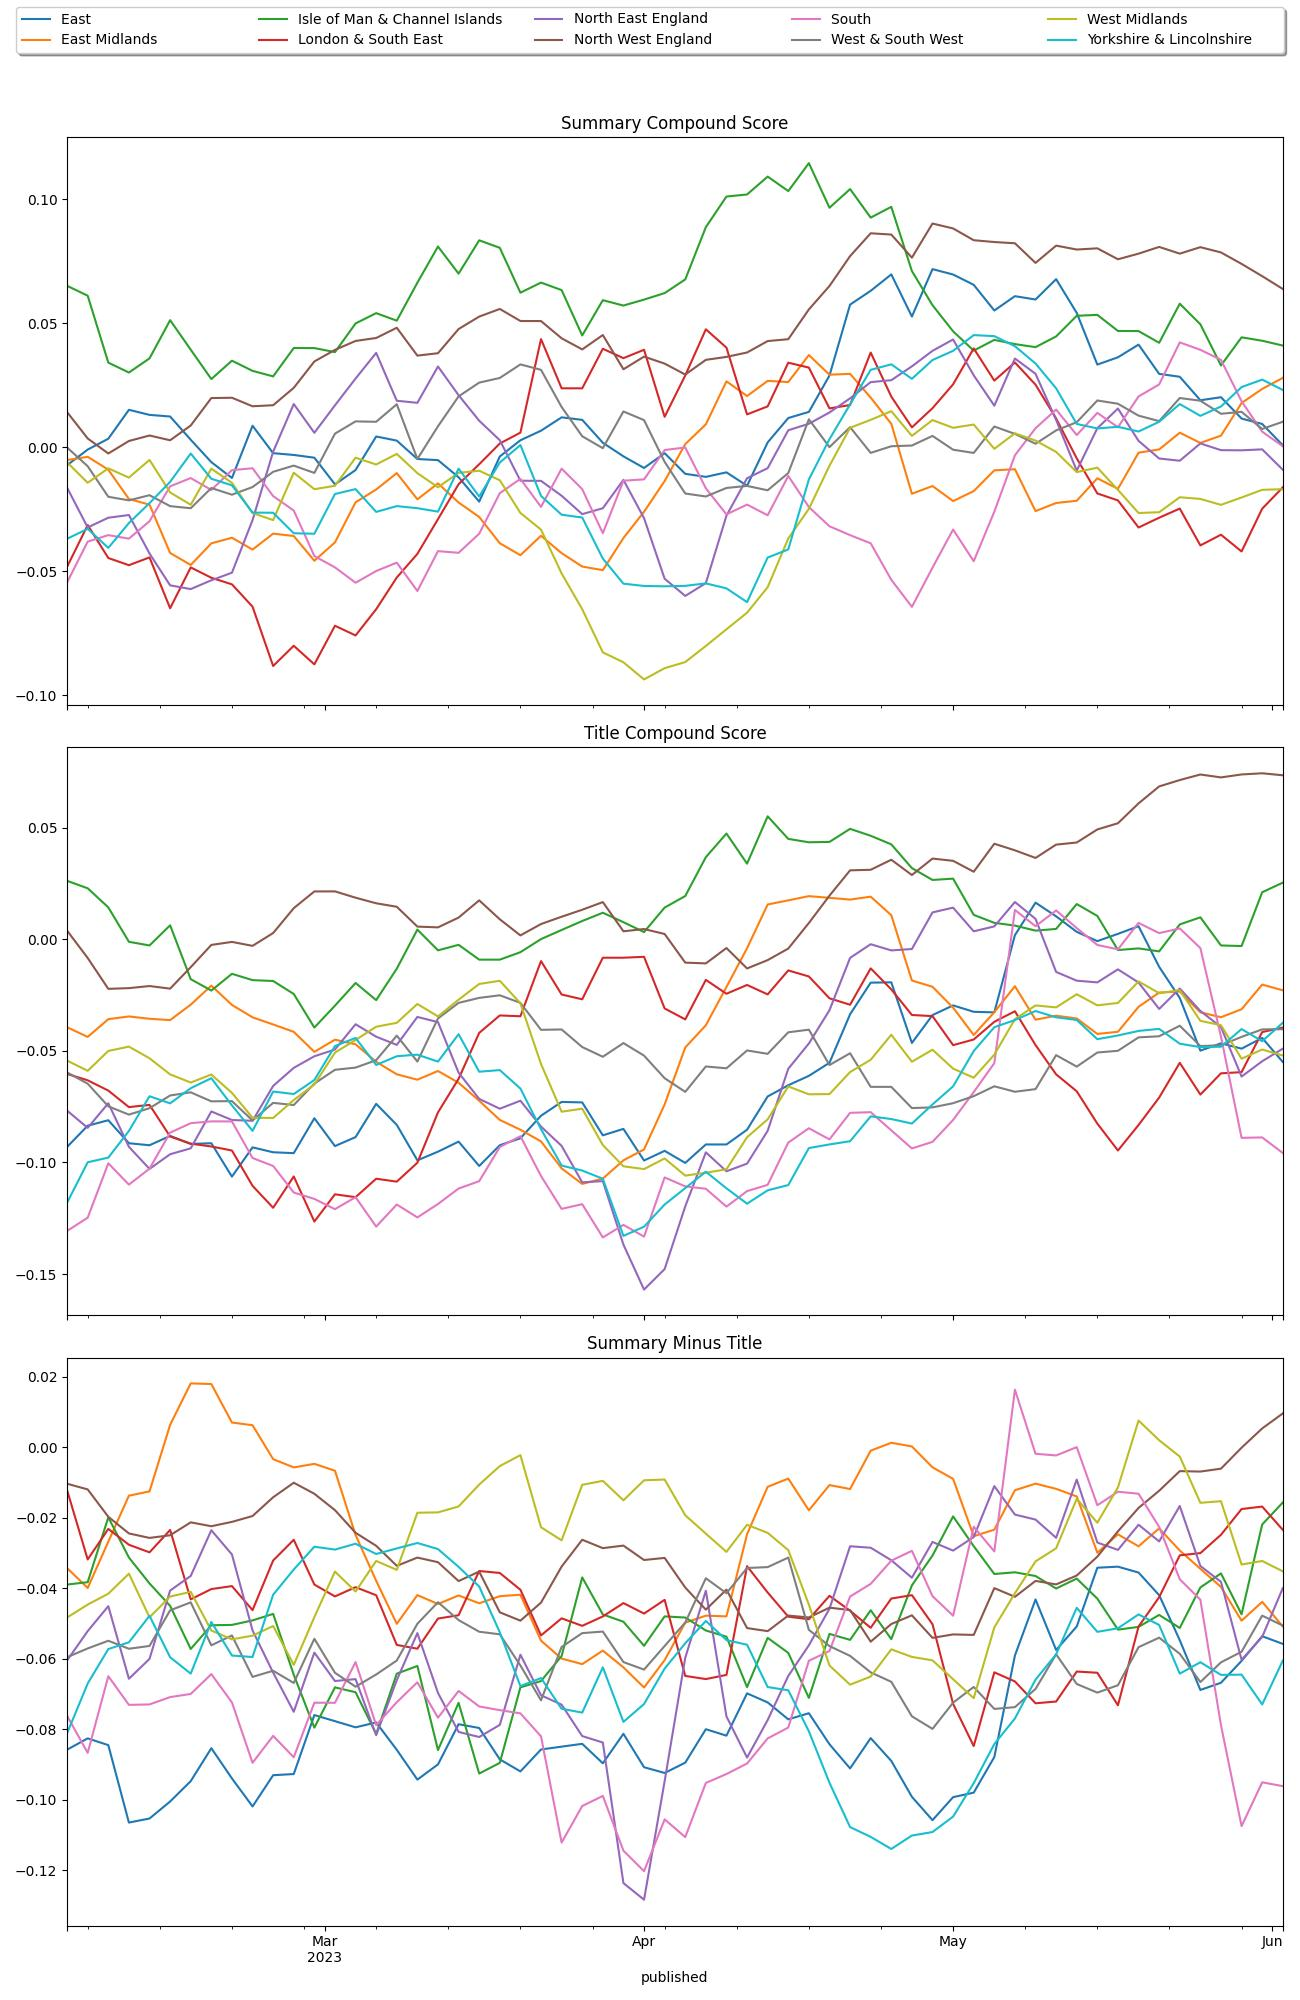
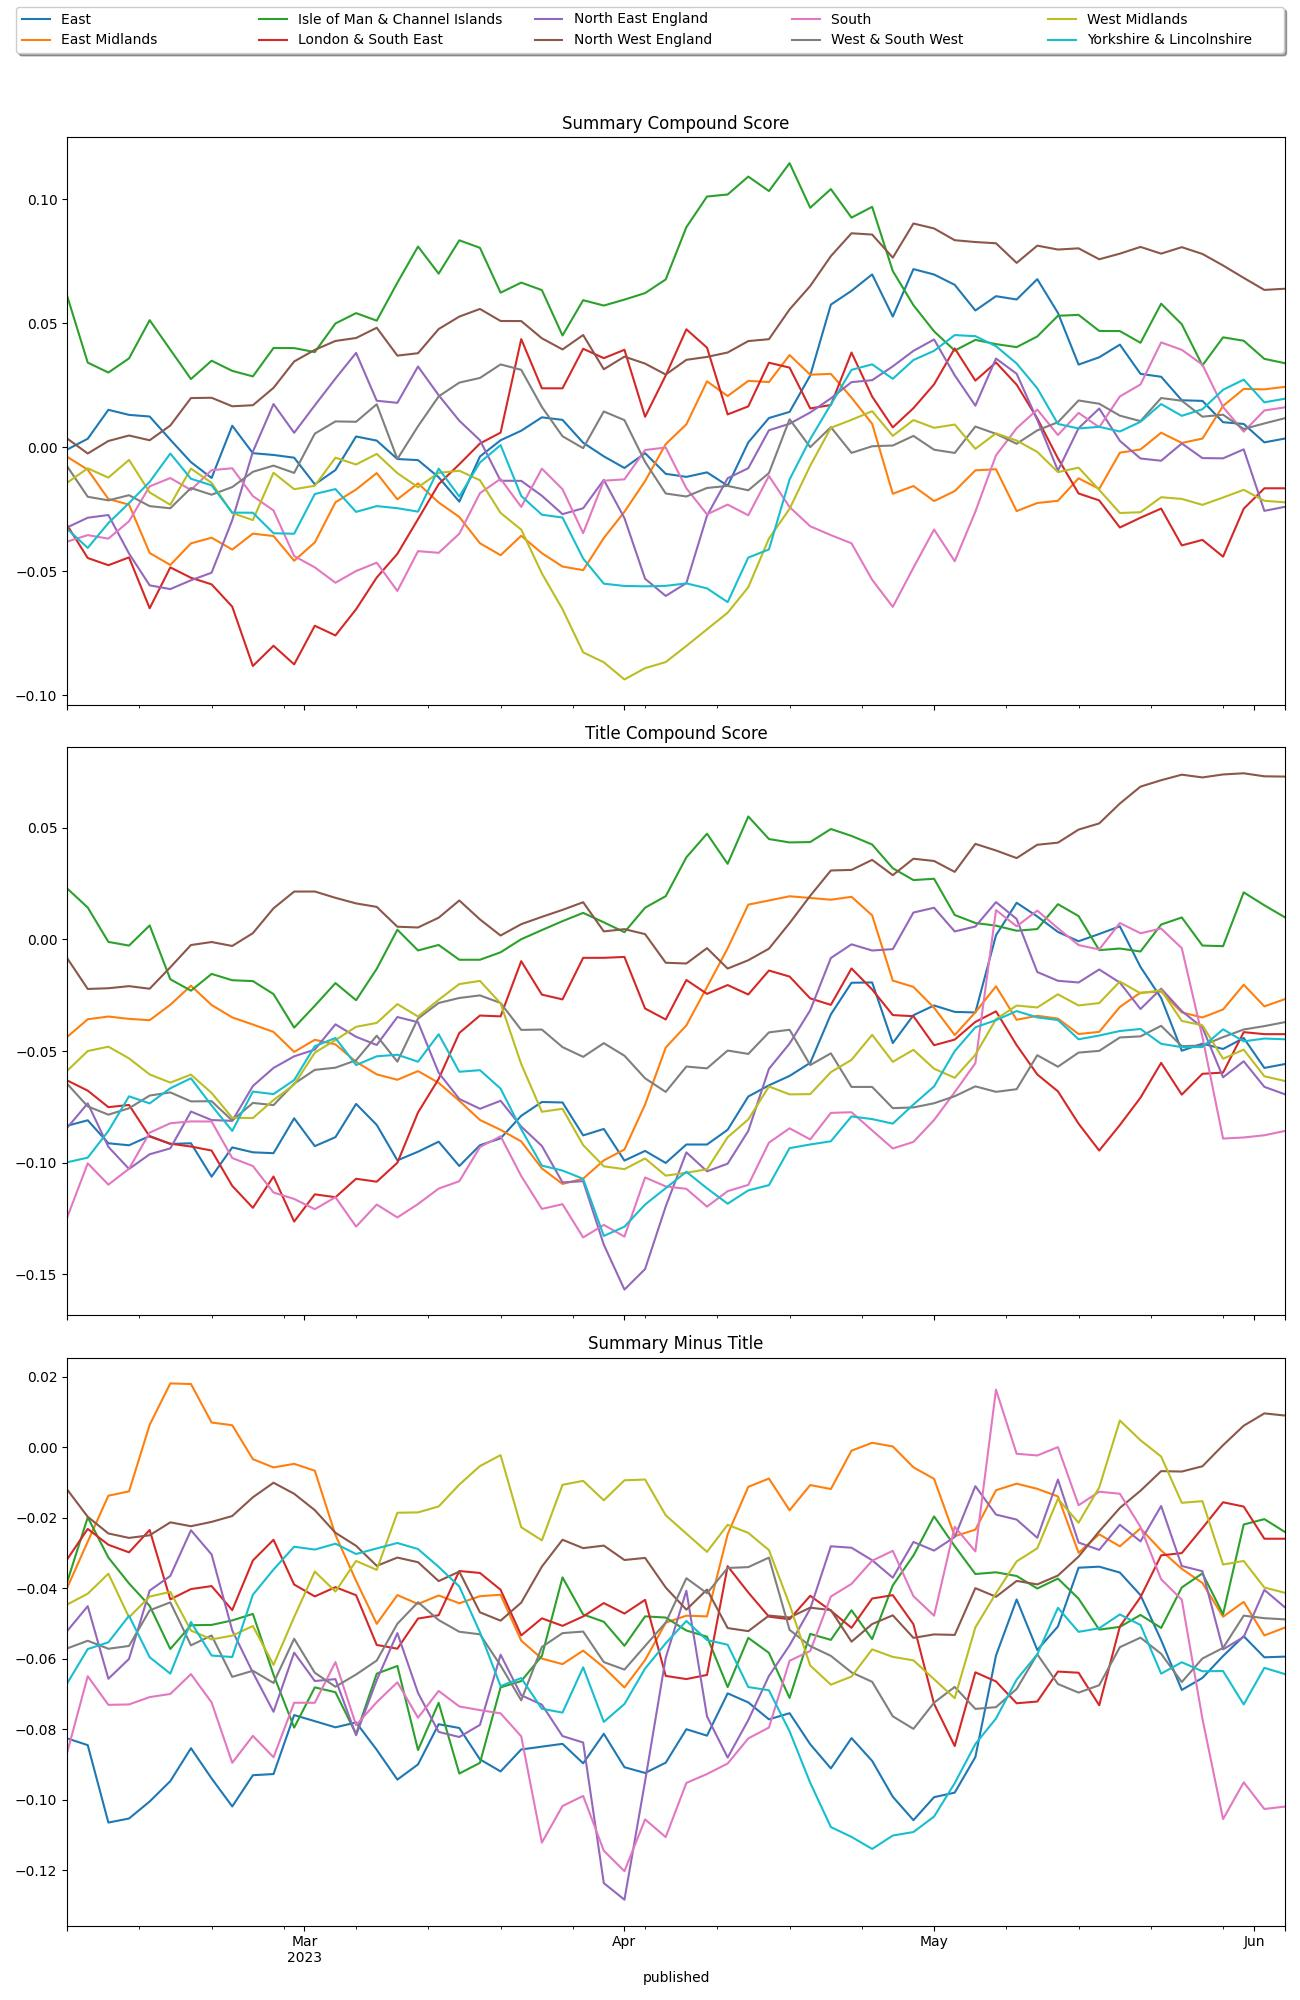
at 2023-06-04 10:48 ran: [Stage: 'complete-basic_report']

diff --git a/reports/complete/latest.md b/reports/complete/latest.md
@@ -1,12 +1,12 @@
-| region                        | published                  | summary                                                                                                                                        | title                                               | url                                      |   summary_compound_score |   title_compound_score |   summary_minus_title |
-|:------------------------------|:---------------------------|:-----------------------------------------------------------------------------------------------------------------------------------------------|:----------------------------------------------------|:-----------------------------------------|-------------------------:|-----------------------:|----------------------:|
-| East                          | 2023-06-03 08:21:58        | The seagull mural on the side of a house on the Suffolk coast has been put in storage.                                                         | House wall being rebuilt after Banksy mural removed | /news/uk-england-suffolk-65792750        |                   0      |                 0      |                0      |
-| East Midlands                 | 2023-06-03 08:56:51        | Lord Austin has faced criticism but he insists he comes with an open mind and desire to help.                                                  | Leicester disorder review head defends appointment  | /news/uk-england-leicestershire-65793769 |                   0.7311 |                -0.4019 |               -1.133  |
-| Isle of Man & Channel Islands | 2023-06-03 08:28:51.601000 | Visiting fans share their excitement ahead of the start of racing at 2023 Isle of Man TT.                                                      | Isle of Man TT fans excited as 'magic' races return | /news/articles/cz4nww213rqo              |                   0.6597 |                 0.34   |               -0.3197 |
-| London & South East           | 2023-06-02 22:00:37        | Somerset and Worcestershire maintain their 100% winning records in the T20 Blast, while there is a surprise first defeat for Birmingham Bears. | Somerset and Worcs win again in T20 Blast           | /sport/cricket/65776856                  |                   0.3612 |                 0.5859 |                0.2247 |
-| North East England            | 2023-06-03 08:43:07        | The JArmy Facebook group has 23,000 members obsessed with the Teesside singer.                                                                 | The legions of superfans 'addicted' to James Arthur | /news/uk-england-tees-65769250           |                  -0.1779 |                 0      |                0.1779 |
-| North West England            | 2023-06-03 09:02:34.432000 |                                                                                                                                                | Guardiola praises 'exceptional manager' Ten Hag     | /sport/articles/c51qpvv29p4o             |                   0      |                 0.5267 |                0.5267 |
-| South                         | 2023-06-02 22:00:37        | Somerset and Worcestershire maintain their 100% winning records in the T20 Blast, while there is a surprise first defeat for Birmingham Bears. | Somerset and Worcs win again in T20 Blast           | /sport/cricket/65776856                  |                   0.3612 |                 0.5859 |                0.2247 |
-| West & South West             | 2023-06-03 08:46:04        | Communities and businesses in Weston-super-Mare are hosting a month of events to mark Pride Month.                                             | Town launches month of events to celebrate Pride    | /news/uk-england-somerset-65765896       |                   0.34   |                 0.7269 |                0.3869 |
-| West Midlands                 | 2023-06-03 09:12:25        | Firefighters remain at the scene in Cheston Road in the Aston area of Birmingham.                                                              | Fire crews tackle huge scrap fire in city           | /news/uk-england-birmingham-65797054     |                   0      |                -0.3612 |               -0.3612 |
-| Yorkshire & Lincolnshire      | 2023-06-03 09:10:51        | Officers were called by the ambulance service to the incident in Roseville Road early on Saturday.                                             | Man seriously injured in hit and run                | /news/uk-england-leeds-65797014          |                   0      |                -0.5267 |               -0.5267 |
+| region                        | published           | summary                                                                                                                                                              | title                                                      | url                                           |   summary_compound_score |   title_compound_score |   summary_minus_title |
+|:------------------------------|:--------------------|:---------------------------------------------------------------------------------------------------------------------------------------------------------------------|:-----------------------------------------------------------|:----------------------------------------------|-------------------------:|-----------------------:|----------------------:|
+| East                          | 2023-06-04 06:16:36 | Leicester Children's Holidays provides holidays and short breaks to disadvantaged children.                                                                          | Children's holiday charity celebrates 125 years            | /news/uk-england-leicestershire-65777628      |                   0.3612 |                 0.8481 |                0.4869 |
+| East Midlands                 | 2023-06-04 08:47:38 | Rising labour costs and low prices force an end to decades of tradition at a Nottingham business.                                                                    | Berry grower stops production due to cash crisis           | /news/uk-england-nottinghamshire-65793174     |                  -0.2732 |                -0.6908 |               -0.4176 |
+| Isle of Man & Channel Islands | 2023-06-03 20:38:28 | Ben and Tom Birchall break the lap and race record on their way to victory at the Isle of Man TT.                                                                    | Birchalls break the 120mph TT sidecar barrier              | /sport/motorsport/65800328                    |                   0      |                -0.128  |               -0.128  |
+| London & South East           | 2023-06-03 21:20:45 | T20 Blast holders Hampshire Hawks cruise to a 10-wicket win over Sussex while Birmingham Bears are beaten by Notts Outlaws.                                          | Hawks rout Sussex & Notts beat Bears in T20 Blast          | /sport/cricket/65799092                       |                   0.25   |                 0      |               -0.25   |
+| North East England            | 2023-06-04 08:23:07 | Jameel Razak from Norton initially mistook the stroke for a hangover after going to the pub.                                                                         | Student says stroke 'turned his life upside down'          | /news/uk-england-tees-65788350                |                   0      |                 0      |                0      |
+| North West England            | 2023-06-04 06:53:44 | Manchester City fan Ben Richardson, who watched his side lose at York City in 1998, says it is the "stuff of dreams" that they are one win from a remarkable Treble. | 'I saw Man City lose at York... now we can win the Treble' | /sport/football/65793209                      |                   0.8658 |                 0.2732 |               -0.5926 |
+| South                         | 2023-06-04 06:19:21 | Paris Norriss, Barney Lewis and brothers Oliver and Harry Amos will row from Monterey to Hawaii.                                                                     | Childhood friends in Pacific rowing challenge              | /news/uk-england-dorset-65791586              |                   0      |                 0.5267 |                0.5267 |
+| West & South West             | 2023-06-04 08:29:50 | Several weeks of repair work to begin on B3327 near Torrington.                                                                                                      | Multiple road closures for maintenance work                | /news/uk-england-devon-65770454               |                   0      |                 0      |                0      |
+| West Midlands                 | 2023-06-04 06:17:40 | The collection of 761 cards could make £3,500 when they are sold, auctioneers say.                                                                                   | Postcards showing county's history to be auctioned         | /news/uk-england-stoke-staffordshire-65794018 |                   0      |                 0      |                0      |
+| Yorkshire & Lincolnshire      | 2023-06-04 07:29:52 | A post-mortem examination found 48-year-old Emily Sanderson died from head injuries.                                                                                 | Man charged with murder after woman is found dead          | /news/uk-england-south-yorkshire-65802082     |                  -0.5574 |                -0.8957 |               -0.3383 |
